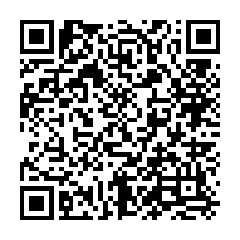
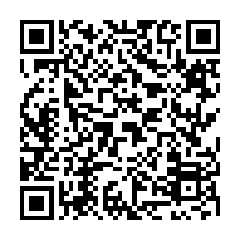
Update Monero address.

Changed region(s): [[0.0583, 0.0583, 0.9333, 0.9333]]

diff --git a/readme.md b/readme.md
@@ -424,8 +424,9 @@ Special thanks to the incredibly awesome projects [YT-DLP](https://github.com/yt
 <img src="https://github.com/wtechgo/vidhop-android/blob/master/img/qr_bitcoin_wtechgo.png?raw=true" alt="Bitcoin" width="100"/>
 </a>
 <pre>bc1qkxqz0frjhx6gshm0uc668zx6686xtfsxdm67u3</pre>
+
 <h3>Monero</h3>
-<a href="https://github.com/wtechgo/vidhop-android/blob/master/img/qr_monero_wtechgo.png?raw=true">
-<img src="https://github.com/wtechgo/vidhop-android/blob/master/img/qr_monero_wtechgo.png?raw=true" alt="Monero" width="100" />
+<a href="https://github.com/wtechgo/vidhop-linux/blob/master/img/qr_monero_wtechgo.png?raw=true">
+    <img src="https://github.com/wtechgo/vidhop-linux/blob/master/img/qr_monero_wtechgo.png?raw=true" alt="Monero" width="100" />
 </a>
-<pre>8BNDojnvwYkacFwztY3XsjefCr28zTDraTgzdFLH8JiL5W4eMjTuHCu57LkCy9UHKHZfGzWDo6ErDYDP4jBK814aG2T8z8c</pre>
+<pre>82VmqH7HPAaDMHvGQhS9jze2Gorjkd5xAdnvpsEGyAJu8oGcxRHqErpgZobCFGT4F5CUmEcwCm79zMdXH7FTinpbVi7bTcn</pre>
